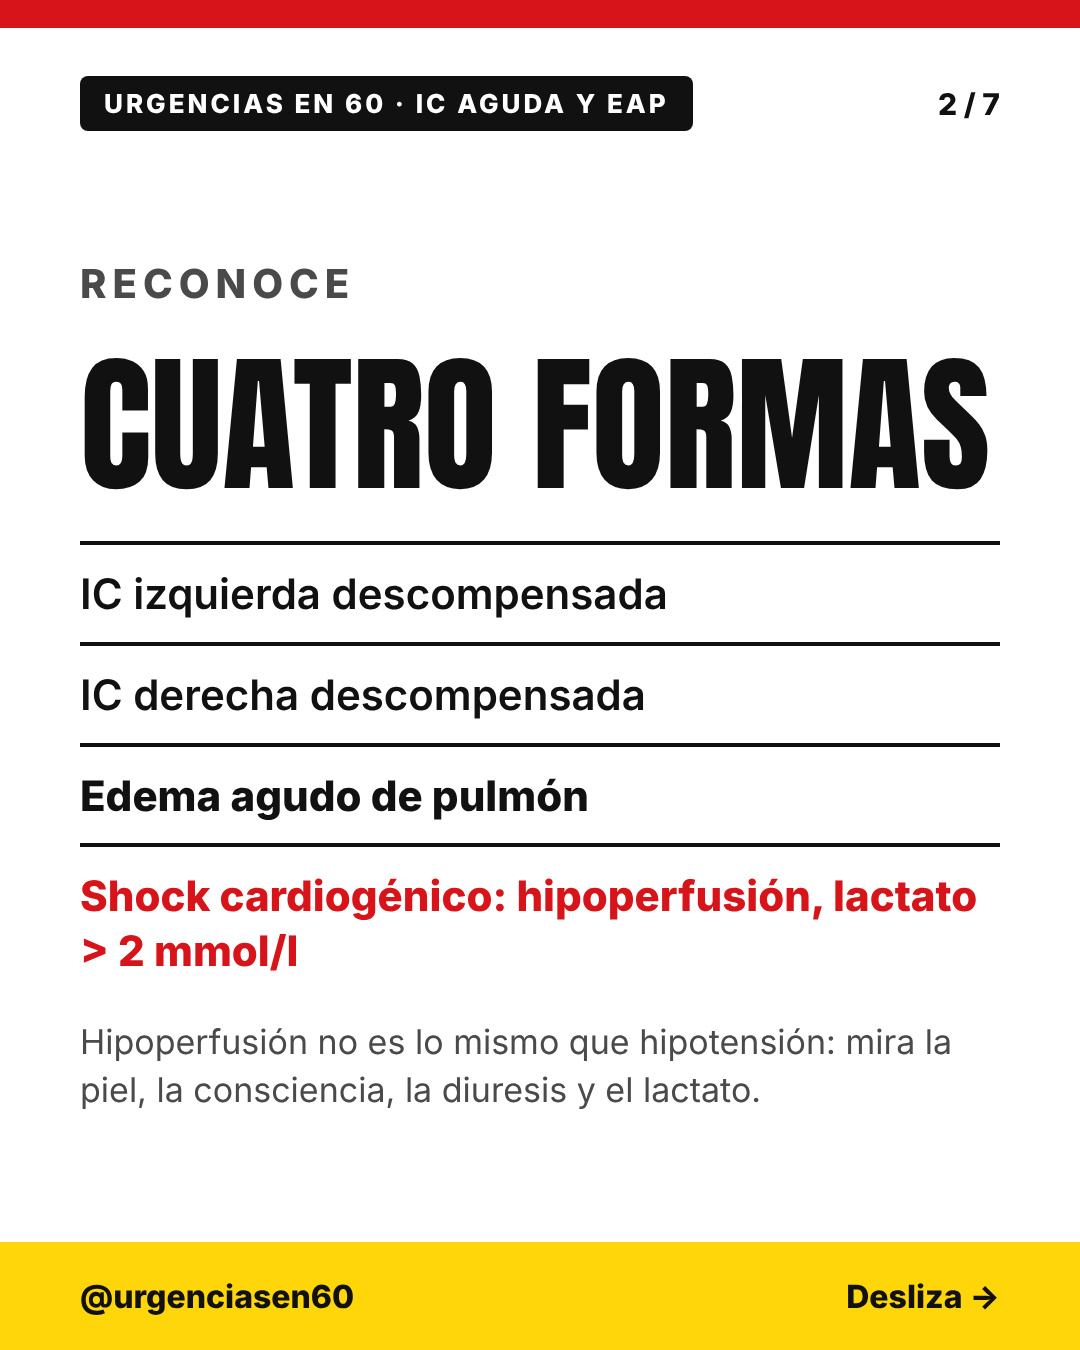
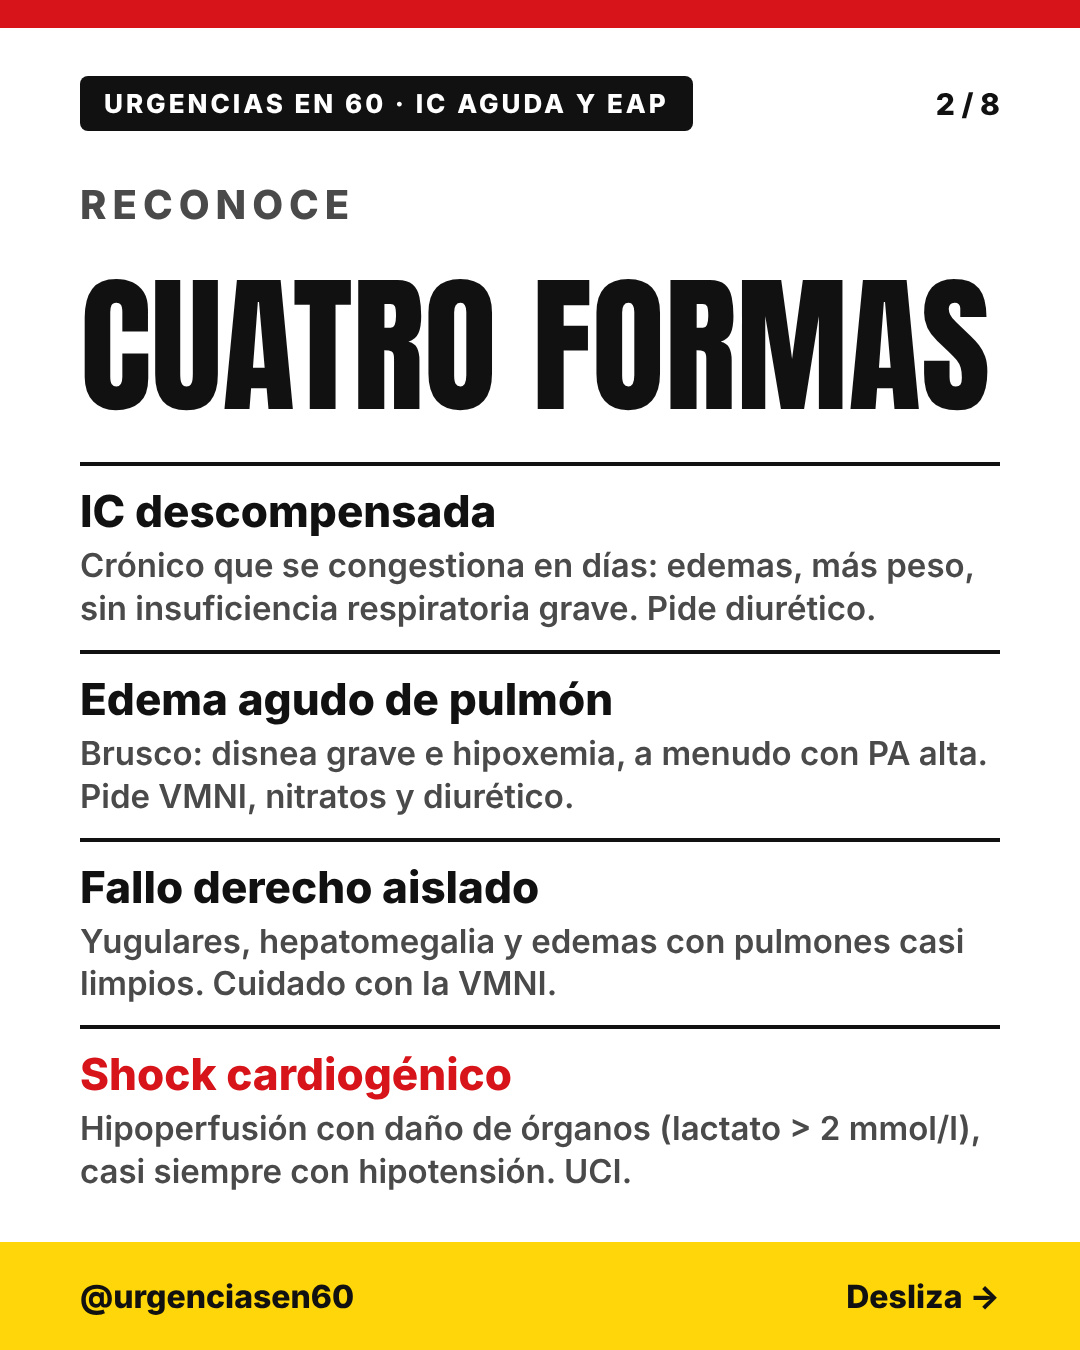
Ficha 12: cuatro formas con títulos clínicos y nueva diapositiva de destino (8 diapositivas); reel actualizado
Claude-Session: https://claude.ai/code/session_019S5PG3QDGQYEzNZVnFL46v

diff --git a/tools/ica_eap.py b/tools/ica_eap.py
@@ -1,15 +1,17 @@
 import os, sys; sys.path.insert(0, os.path.dirname(os.path.abspath(__file__)))
 from ficha import *
-T="IC AGUDA Y EAP"; N=7   # franja roja: vital (por defecto)
+T="IC AGUDA Y EAP"; N=8   # franja roja: vital (por defecto)
 note=lambda t: f'<div style="font-size:34px;line-height:1.4;color:{G}">{t}</div>'
 rows=lambda *x: '<div style="display:flex;flex-direction:column;gap:20px">'+"".join(x)+'</div>'
+forma=lambda t,d,red=False: f'<div style="border-top:4px solid {K};padding-top:18px"><div style="font-size:44px;font-weight:800;color:{R if red else K}">{t}</div><div style="font-size:33px;font-weight:600;line-height:1.3;color:{G};margin-top:6px">{d}</div></div>'
 P=[
 page(1,N,T,big("EDEMA AGUDO DE PULMÓN",128)+big(f'¿FUNCIONA LA FUROSEMIDA? <span style="color:{R}">MÍRALO A LAS 2 HORAS</span>',98)+'<div style="font-size:40px;font-weight:600;line-height:1.3;max-width:820px">Insuficiencia cardiaca aguda: perfil, dosis, respuesta diurética y qué hacer según la presión. Con ficha final.</div>',cover=True),
-page(2,N,T,kicker("RECONOCE")+big("CUATRO FORMAS",150,nowrap=True)+rows(line("IC izquierda descompensada"),line("IC derecha descompensada"),line("Edema agudo de pulmón",True),f'<div style="border-top:4px solid {K};padding-top:22px;font-size:42px;font-weight:800;line-height:1.3;color:{R}">Shock cardiogénico: hipoperfusión, lactato &gt; 2 mmol/l</div>')+note("Hipoperfusión no es lo mismo que hipotensión: mira la piel, la consciencia, la diuresis y el lactato.")),
+page(2,N,T,kicker("RECONOCE")+big("CUATRO FORMAS",150,nowrap=True)+rows(forma("IC descompensada","Crónico que se congestiona en días: edemas, más peso, sin insuficiencia respiratoria grave. Pide diurético."),forma("Edema agudo de pulmón","Brusco: disnea grave e hipoxemia, a menudo con PA alta. Pide VMNI, nitratos y diurético."),forma("Fallo derecho aislado","Yugulares, hepatomegalia y edemas con pulmones casi limpios. Cuidado con la VMNI."),forma("Shock cardiogénico","Hipoperfusión con daño de órganos (lactato &gt; 2 mmol/l), casi siempre con hipotensión. UCI.",True))),
 page(3,N,T,kicker("BUSCA LA CAUSA")+big("CHAMPIT",210,R,True)+rows(row("C","Coronario: síndrome coronario agudo"),row("H","Hipertensión: emergencia hipertensiva"),row("A","Arritmia"),row("M","Mecánica: valvulopatía aguda, rotura"),row("P","TEP (Pulmonary embolism)"),row("I · T","Infección · Taponamiento"))+note("NT-proBNP &lt; 300 pg/ml (o BNP &lt; 100) hace improbable el origen cardiaco. Ecografía pulmonar: ≥ 3 líneas B en ≥ 2 espacios intercostales de cada lado.")),
 page(4,N,T,kicker("DESCONGESTIONA")+big("FUROSEMIDA IV",150,R,True)+rows(row("Sin diurético previo","40 mg"),row("Si ya lo tomaba","1–2 veces su dosis oral diaria"))+big("¿RESPONDE?",130,nowrap=True)+rows(row("Sodio en orina a las 2 h","&gt; 70 mEq/l"),row("Diuresis a las 6 h","≥ 100–150 ml/h"))+note("Sí: la misma dosis cada 12 h. No: dobla la dosis (bolo máx. 250 mg) y valora acetazolamida, si tomaba dosis bajas, o una tiazida, si tomaba dosis altas.")),
 page(5,N,T,kicker("RESPIRA")+big("VMNI PRONTO",180,R,True)+'<div style="font-size:48px;font-weight:800;line-height:1.2">Si FR &gt; 25 y SatO2 &lt; 90 %</div>'+rows(row("CPAP","5–10 cmH2O"),row("BiPAP","Si hay hipercapnia"),row("Oxígeno","Si SatO2 &lt; 90 %, sin hiperoxia"))+note("Si en la primera hora no mejoran la FR ni la oxigenación, intubación. Alto flujo si no tolera la VMNI. Cuidado con la VMNI en el fallo derecho.")),
 page(6,N,T,kicker("LA PRESIÓN DECIDE")+big("PAS &gt; 110",150,R,True)+rows(row("Nitroglicerina IV","Inicio 10–20 µg/min"),row("Sube","10–20 µg/min cada 5–10 min"),row("Preparación","25 mg en 500 ml de SG 5 % (10 µg/min = 12 ml/h)"),row("Objetivo","−25 % en 1 h; 130–140 en 6 h"),row("Suspende","Si PAS &lt; 100 o hipotensión"),row("PAS &lt; 90 + hipoperfusión","Dobutamina y UCI"))+note("Morfina: no de rutina. Ansiedad: midazolam 1 mg IV, hasta 3 mg.")),
-page(7,N,T,ficha_body("IC AGUDA · EAP","Adulto",[("CAUSA","CHAMPIT: coronario, HTA, arritmia, mecánica, TEP, infección, taponamiento"),("PRUEBAS","NT-proBNP &lt; 300 (BNP &lt; 100): improbable. ECG, troponina, eco"),("FUROSEMIDA","IV 40 mg; si la tomaba, 1–2 veces su dosis oral diaria",True),("¿RESPONDE?","Na orina &gt; 70 mEq/l (2 h) o diuresis ≥ 100–150 ml/h (6 h). Si no: doblar ± acetazolamida o tiazida"),("RESPIRA","O2 si SatO2 &lt; 90 %. VMNI si FR &gt; 25 y SatO2 &lt; 90 % (CPAP 5–10)",True),("PAS","&gt; 110: NTG IV 10–20 µg/min, +10–20 cada 5–10 min (−25 % en 1 h). &lt; 90 e hipoperfusión: dobutamina"),("MORFINA","No de rutina. Ansiedad: midazolam 1–3 mg IV"),("DESTINO","Bajo riesgo (MEESSI-AHF): alta y revisión en 1 semana")],"Consenso ESC-ACVC/HFA/EUSEM 2026 (Miró Ò, et al.); guía ESC 2026",size=112,fs=26),ficha="12"),
+page(7,N,T,kicker("¿Y AHORA QUÉ?")+big("DESTINO",130,R,True)+'<div style="font-size:42px;font-weight:800;line-height:1.2">Calcula el riesgo con MEESSI-AHF</div>'+rows(row("Bajo riesgo","Alta posible (mortalidad &lt; 2 % a 30 días)"),row("Resto","Ingreso"),row("Hipoperfusión o shock","UCI o cuidados intermedios"),row("Al alta","Mantén su tratamiento de IC y revisión en 1 semana"))+note("MEESSI-AHF y EHMRG son las escalas más validadas en Urgencias. No retires el tratamiento crónico salvo hipotensión, insuficiencia renal grave o hiperpotasemia.")),
+page(8,N,T,ficha_body("IC AGUDA · EAP","Adulto",[("CAUSA","CHAMPIT: coronario, HTA, arritmia, mecánica, TEP, infección, taponamiento"),("PRUEBAS","NT-proBNP &lt; 300 (BNP &lt; 100): improbable. ECG, troponina, eco"),("FUROSEMIDA","IV 40 mg; si la tomaba, 1–2 veces su dosis oral diaria",True),("¿RESPONDE?","Na orina &gt; 70 mEq/l (2 h) o diuresis ≥ 100–150 ml/h (6 h). Si no: doblar ± acetazolamida o tiazida"),("RESPIRA","O2 si SatO2 &lt; 90 %. VMNI si FR &gt; 25 y SatO2 &lt; 90 % (CPAP 5–10)",True),("PAS","&gt; 110: NTG IV 10–20 µg/min, +10–20 cada 5–10 min (−25 % en 1 h). &lt; 90 e hipoperfusión: dobutamina"),("MORFINA","No de rutina. Ansiedad: midazolam 1–3 mg IV"),("DESTINO","Bajo riesgo (MEESSI-AHF): alta y revisión en 1 semana")],"Consenso ESC-ACVC/HFA/EUSEM 2026 (Miró Ò, et al.); guía ESC 2026",size=112,fs=26),ficha="12"),
 ]
 render(P,sys.argv[1] if len(sys.argv)>1 else "out","ica-eap")

diff --git a/tools/reel_lote_2011.py b/tools/reel_lote_2011.py
@@ -3,9 +3,9 @@ import os, sys; sys.path.insert(0, os.path.dirname(os.path.abspath(__file__)))
 from reel import *
 ROOT=os.path.dirname(HERE)
 sp=lambda h: f'<div style="height:{h}px"></div>'
-def fin(carpeta,slug,sello):
-    f="file://"+os.path.join(ROOT,"borradores",carpeta,f"urgenciasen60-{slug}-7.jpg")
-    if not os.path.exists(f[7:]): f="file://"+os.path.join(ROOT,carpeta,f"urgenciasen60-{slug}-7.jpg")
+def fin(carpeta,slug,sello,n=7):
+    f="file://"+os.path.join(ROOT,"borradores",carpeta,f"urgenciasen60-{slug}-{n}.jpg")
+    if not os.path.exists(f[7:]): f="file://"+os.path.join(ROOT,carpeta,f"urgenciasen60-{slug}-{n}.jpg")
     return (K,[big(sello,130,Y),f'<img src="{f}" style="width:560px;display:block;box-shadow:0 24px 70px rgba(0,0,0,.6)">',txt("Completa en el perfil. Guárdala.",50)],[(3,6.0)])
 L={
 "ictus":("CÓDIGO ICTUS","urgenciasen60-codigo-ictus-reel.mp4",[
@@ -21,7 +21,7 @@ L={
  (R,[kicker("2 · A LAS 2 HORAS")+sp(30)+big("MIDE LA ORINA",210),txt("Sodio &gt; 70 mEq/l a las 2 h o diuresis ≥ 100–150 ml/h",60,Y)+sp(22)+txt("Si no responde: dobla la dosis",60)],[(1,1.8),(2,3.4)]),
  (K,[kicker("3 · RESPIRA")+sp(30)+big("VMNI PRONTO",220,Y),txt("FR &gt; 25 y SatO2 &lt; 90 %",68)],[(1,1.6),(2,2.8)]),
  (Y,[kicker("4 · LA PRESIÓN DECIDE")+sp(30)+big("PAS &gt; 110",240,R),txt("Nitroglicerina IV desde 10–20 µg/min",64)+sp(22)+txt("Morfina: no de rutina",62)],[(1,1.8),(2,3.0)]),
- fin("ica-eap","ica-eap","FICHA 12")]),
+ fin("ica-eap","ica-eap","FICHA 12",8)]),
 "epoc":("AGUDIZACIÓN DE EPOC","urgenciasen60-epoc-reel.mp4",[
  (Y,[big("EPOC<br>AGUDIZADA",210),big("MÁS OXÍGENO<br>NO ES MEJOR",160,R)],[(2,3.4)]),
  (W,[kicker("1 · OBJETIVO",G)+sp(30)+big("88–92 %",220,R),txt("Venturi 24–28 % o gafas 2–4 l/min",64)],[(1,1.8),(2,3.0)]),

diff --git a/borradores/REVISION.md b/borradores/REVISION.md
@@ -113,7 +113,7 @@ Cambios respecto al primer borrador (todos del consenso; tabla 1, tabla 2, figur
 - Destino: MEESSI-AHF o EHMRG; bajo riesgo, candidato a alta, y revisión a la semana. Se mantiene el tratamiento crónico de la IC.
 - 20/11 (Eduardo): nitroglicerina IV, inicio 10–20 µg/min con incrementos de 10–20 µg/min cada 5–10 min; preparación de su urgencia: 25 mg en 500 ml de SG 5 % (50 µg/ml; 10 µg/min = 12 ml/h). Sin noradrenalina en la ficha.
 Dudas que quedan:
-- ¿Diapositiva 2 («cuatro formas») sobra? Se podría cambiar por el destino (MEESSI-AHF, revisión en una semana).
+- 20/11 (Eduardo): la diapositiva 2 mantiene las cuatro formas con títulos clínicos (IC descompensada, edema agudo de pulmón, fallo derecho aislado, shock cardiogénico) y una línea de cómo se presenta y qué pide cada una. Se añade la diapositiva 7, «Destino» (MEESSI-AHF; bajo riesgo, alta posible con mortalidad < 2 % a 30 días; resto, ingreso; hipoperfusión, UCI o intermedios; al alta, mantener el tratamiento y revisión en 1 semana). Total: 8 diapositivas.
 
 ## Ficha 13 · Agudización de EPOC (`epoc/`)
 Fuentes (texto completo): Soler-Cataluña JJ, Piñera P, Trigueros JA, et al. Actualización 2021 de GesEPOC. Diagnóstico y tratamiento del síndrome de agudización de la EPOC. Arch Bronconeumol. 2022;58(2):159-70. doi:10.1016/j.arbres.2021.05.011. Global Initiative for Chronic Obstructive Lung Disease. GOLD 2026 Report, cap. 4. Rochwerg B, et al. Official ERS/ATS clinical practice guidelines: noninvasive ventilation for acute respiratory failure. Eur Respir J. 2017;50(2):1602426. doi:10.1183/13993003.02426-2016.

diff --git a/COLA.md b/COLA.md
@@ -29,7 +29,7 @@ Ritmo de publicación: lunes, miércoles y viernes a las 21:00 (Europe/Madrid), 
 | MIR 01 | Cuenta atrás MIR · Ep. 01: ECG (BAV completo y taquicardia de QRS estrecho) + reel | `mir-ep01/` | **Programada** dom 22/11 20:00 (carrusel) y lun 23/11 14:00 (reel) | Aprobada por Eduardo el 18/11 |
 | MIR 02 | Cuenta atrás MIR · Ep. 02: abdomen agudo (neumoperitoneo por úlcera perforada e isquemia mesentérica con gas portal) + reel | `mir-ep02/` | Pendiente de revisión (casos en `mir-ep02/CASOS.md`; validar antes del lun 23/11) | Previsto mié 25/11 14:00 (carrusel) y jue 26/11 14:00 (reel) |
 | 11 | Código ictus: la primera hora (+ reel) | `borradores/codigo-ictus/` | Pendiente de revisión (20/11) | — |
-| 12 | IC aguda y edema agudo de pulmón (+ reel) | `borradores/ica-eap/` | Pendiente de revisión (20/11) | — |
+| 12 | IC aguda y edema agudo de pulmón (8 diapos + reel; revisada con el consenso ESC/EuSEM 2026) | `borradores/ica-eap/` | Pendiente de revisión (20/11) | — |
 | 13 | Agudización de EPOC (+ reel) | `borradores/epoc/` | Pendiente de revisión (20/11) | — |
 
 Próximo número libre: Ficha 14, Técnica 03, Guía 02, Paper 02. Las dudas clínicas de cada borrador están en `borradores/REVISION.md`.
